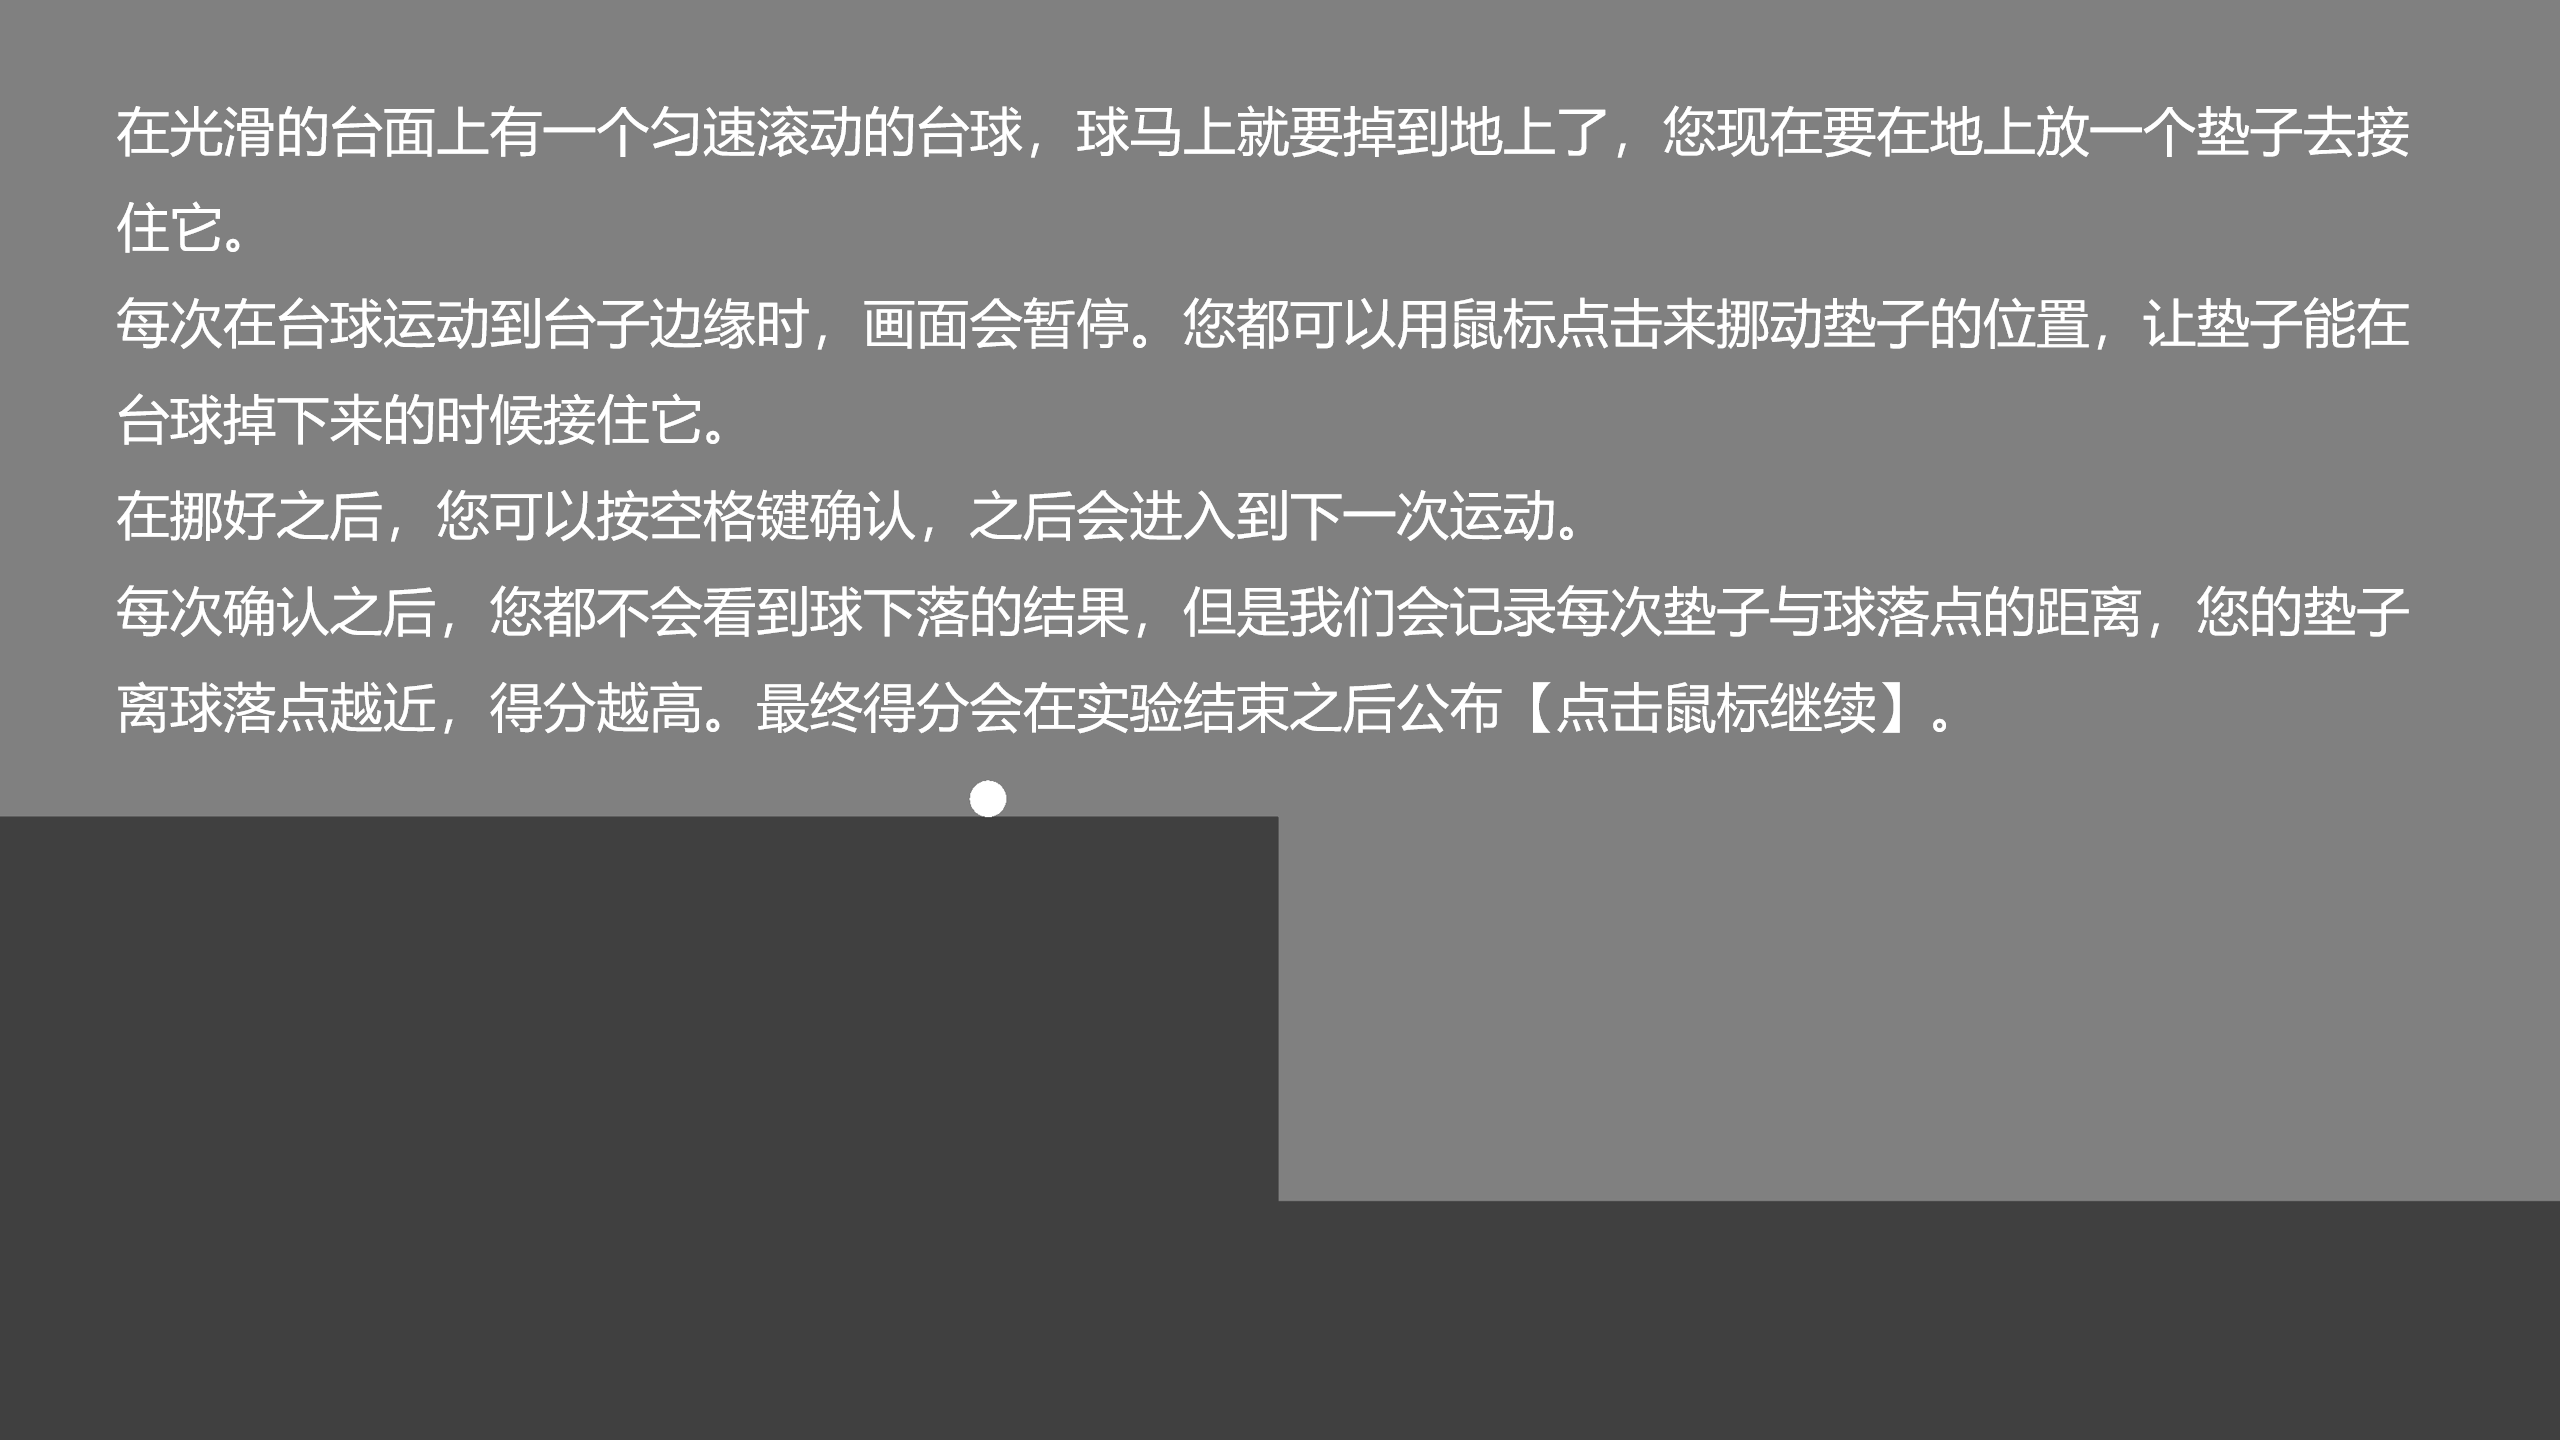
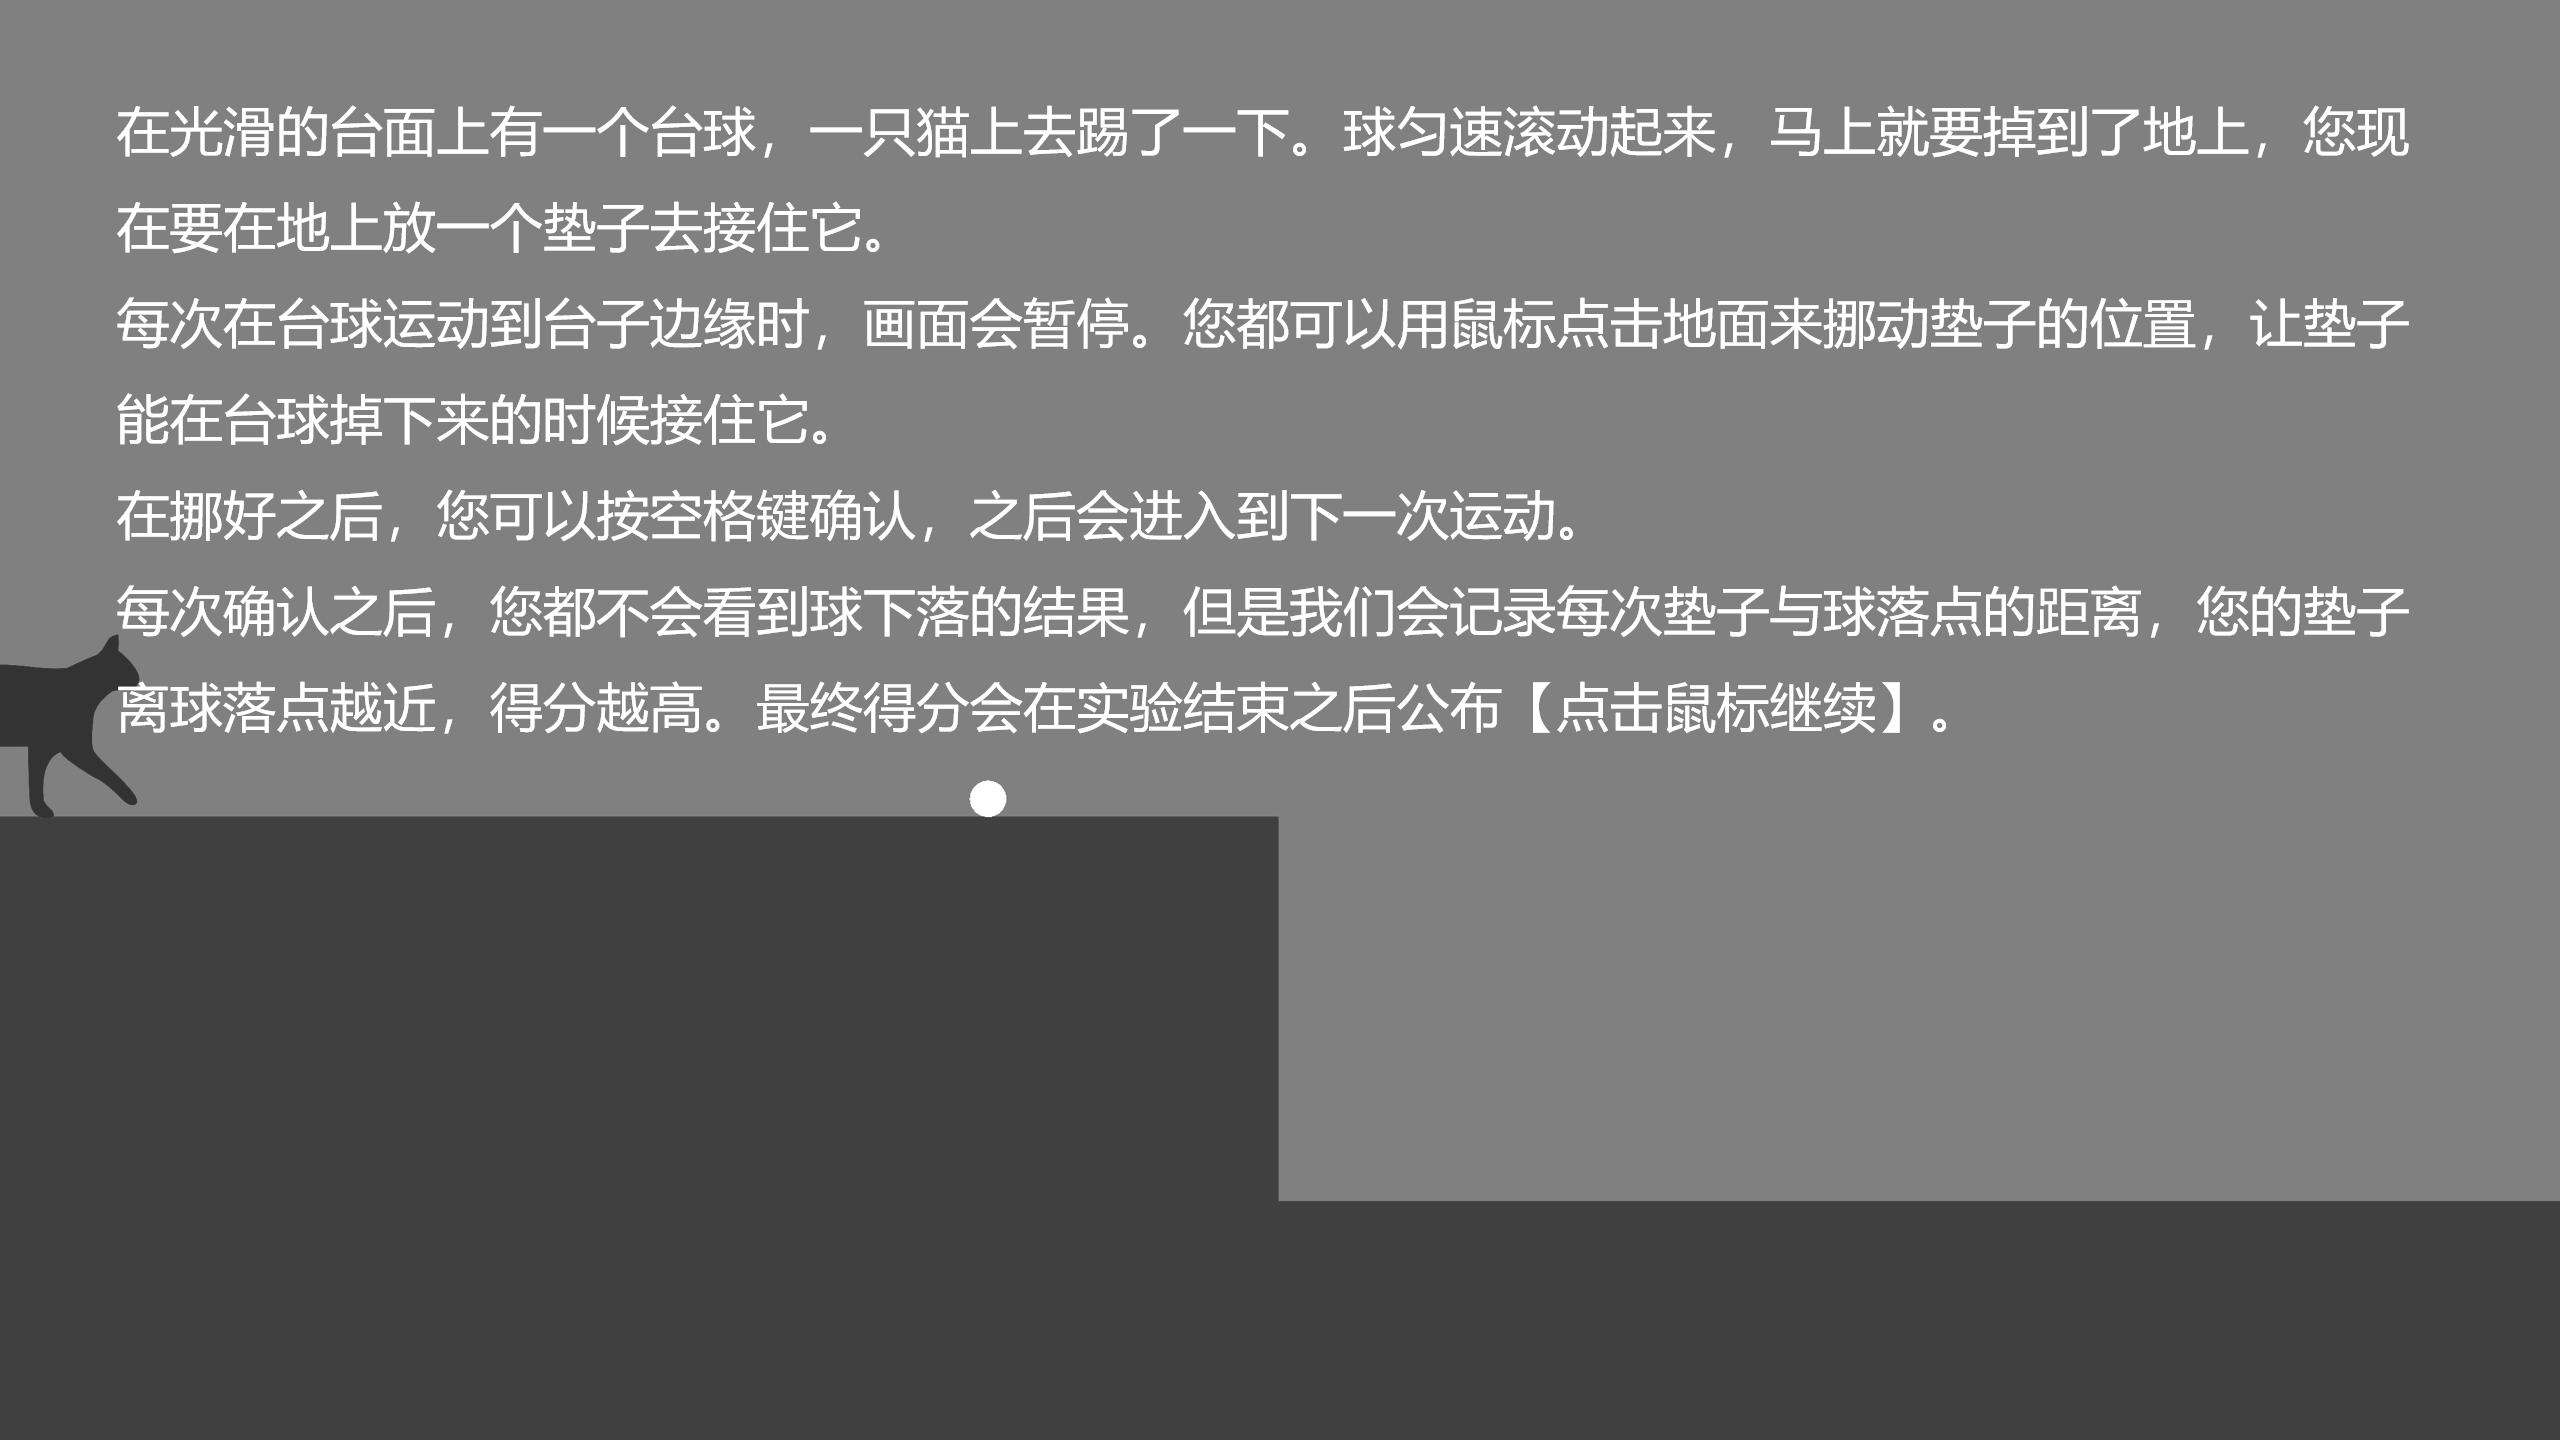
添加指导语，修改实验细节

diff --git a/trial_func.py b/trial_func.py
@@ -6,7 +6,7 @@ from psychopy import visual, event, core
 from target import *
 
 
-def run_trial(i, win, df, clk, ball, net, table, scale=800, h0=-600):
+def run_trial(i, win, df, clk, ball, net, table, cat0, cat1, scale=800, h0=-600):
     """
     执行抛物运动实验
     :param i: 试次编号
@@ -16,6 +16,8 @@ def run_trial(i, win, df, clk, ball, net, table, scale=800, h0=-600):
     :param ball: 运动对象，visual.Circle()
     :param net: 捕捉网，visual.Rect()
     :param table: 桌子&地面，visual.ShapeStim()
+    :param cat0: 猫0，visual.Image()
+    :param cat1: 猫1，visual.Image()
     :param scale: 像素与米之间的关系，在3200*1800分辨率下，1m=800像素
     :param h0: 地面高度，单位像素
     :return: 返回
@@ -29,34 +31,47 @@ def run_trial(i, win, df, clk, ball, net, table, scale=800, h0=-600):
         ori = 1
     else:
         ori = -1
-    s0 = df.s0[i] * ori * w / 2
+    # s0 = df.s0[i] * ori * w / 2
     start_pos = (-w*ori / 2, hy + h0 + size_r)
     ball.pos = start_pos
-    net.pos = (s0, h0)
+    # net.pos = (s0, h0)
+    cat0.pos = (-w*ori / 2, hy + h0 + 0.42*scale/2)
+    cat1.pos = (-w * ori / 2, hy + h0 + 0.42 * scale / 2)
+    cat0.flipHoriz = (ori==-1)
+    cat1.flipHoriz = (ori==-1)
     # ok_shape.pos = (-w * ori / 4, h0)
     # ok.pos = (-w * ori / 4, h0)
     vertices = ((-w*ori / 2, -h / 2), (-w*ori / 2, hy + h0), (0, hy + h0), (0, h0), (w*ori / 2, h0), (w*ori / 2, -h / 2))
     table.vertices = vertices
 
     myMouse = event.Mouse()
-    state = 'move'
+    state = 'ready'
     clk.reset()  # 初始时钟
     event.clearEvents()
 
     while True:
         # 初始状态
-        if state == 'move':
+        if state == 'ready':
+            table.draw()
+            cat0.draw()
+            ball.draw()
+            win.flip()
+            state = 'move'
+            core.wait(0.5)
+        elif state == 'move':
             t1 = clk.getTime()
             ball.pos = get_x(t1, v=v, scale=scale, pos_start=start_pos, ori=ori)
             table.draw()
+            cat1.draw()
             ball.draw()
             win.flip()
             if (abs(ball.pos[0]) < size_r) or (ori*ball.pos[0] > 0):
                 ball.pos = (0, start_pos[1])
                 state = 'estimate'
                 table.draw()
-                ball.draw()
-                net.draw()
+                # ball.draw()
+                cat1.draw()
+                # net.draw()
                 win.flip()
                 clk.reset()
 
@@ -66,7 +81,8 @@ def run_trial(i, win, df, clk, ball, net, table, scale=800, h0=-600):
                 table.draw()
                 # ok_shape.draw()
                 # ok.draw()
-                ball.draw()
+                # ball.draw()
+                cat1.draw()
                 net.draw()
                 win.flip()
             key = event.getKeys(keyList=['space'], timeStamped=clk)

diff --git a/exp.py b/exp.py
@@ -20,6 +20,7 @@ sex = ok_data[1]
 age = ok_data[2]
 
 
+# w, h = (1920, 1080)  # 显示器像素
 w, h = (3200, 1800)  # 显示器像素
 distance = 50
 width = 29.3
@@ -34,17 +35,18 @@ mon.save()  # 保存显示器信息
 
 
 ball_d = 0.05715
-height = [0.6, 1.1, 1.6]
-v = [1, 2, 3]
+# height = [0.6, 1.1, 1.6]
+# v = [1, 2, 3]
+height = [0.4, 0.8, 1.2, 1.6]
+v = [1, 1.8, 2.6]
 ori = ['left', 'right']
-repeat = 4
-repeat_half = 2
+repeat = 3
 # 生成trial
 df = generate(ball_d=ball_d, height=height, v=v, ori=ori,  repeat=repeat, unit='m')
 df_tr = generate_train(ball_d=ball_d)
 df['pix_w'] = w
 df['pix_h'] = h
-scale = 3200*800/w
+scale = w*800/3200
 df['scale'] = scale
 df_tr['scale'] = scale
 h0 = -h/3
@@ -64,9 +66,10 @@ net = visual.Rect(win, width=size_r*4, height=size_r/5, fillColor='white', lineC
 # ok_shape = visual.Rect(win, width=w/30, height=h/32, fillColor=[0, 0, 0], lineWidth=0)
 table = visual.ShapeStim(win, fillColor=[-0.5, -0.5, -0.5], lineColor=[-0.5, -0.5, -0.5])
 # ok = visual.TextStim(win, text=u"确认", height=h/40, color='white')
+cat0 = visual.ImageStim(win, size=(0.48*scale, 0.42*scale), image='icon/Cats0.png')
+cat1 = visual.ImageStim(win, size=(0.48*scale, 0.42*scale), image='icon/Cats.png')
 
 myMouse = event.Mouse()
-
 # 指导语
 pic = visual.ImageStim(win, size=(w, h))
 # 指导语
@@ -74,6 +77,7 @@ for i in range(3):
     pic.image = 'pic/指导语%s.png'%(i+1)
     pic.draw()
     win.flip()
+    core.wait(2)
     while sum(myMouse.getPressed(getTime=True)[0]) == 0:
         continue
     event.clearEvents()
@@ -83,10 +87,7 @@ clk = clock.Clock()
 clk.reset()
 for i in range(len(df_tr)):
     win.flip()
-    fix.draw()
-    win.flip()
-    core.wait(0.3)
-    rt, s, points = run_trial(i, win, df_tr, clk, ball, net, table, scale=scale, h0=h0)
+    rt, s, points = run_trial(i, win, df_tr, clk, ball, net, table, cat0, cat1, scale=scale, h0=h0)
     result_tr['id'].append(i)
     result_tr['rt'].append(rt)
     result_tr['s'].append(s)
@@ -119,13 +120,10 @@ for i in range(len(df)):
     if i == len(df)//2:
         visual.TextStim(win, text='请休息一下，双击屏幕或点击鼠标继续', pos=(0, 0), height=h/32).draw()
         win.flip()
+        core.wait(2)
         while sum(myMouse.getPressed(getTime=True)[0]) == 0:
             continue
-    win.flip()
-    fix.draw()
-    win.flip()
-    core.wait(0.3)
-    rt, s, points = run_trial(i, win, df, clk, ball, net, table, scale=scale, h0=h0)
+    rt, s, points = run_trial(i, win, df, clk, ball, net, table, cat0, cat1, scale=scale, h0=h0)
     result['id'].append(i)
     result['rt'].append(rt)
     result['s'].append(s)

diff --git a/generate_data.py b/generate_data.py
@@ -5,7 +5,7 @@ import pandas as pd
 import numpy as np
 
 
-def generate(ball_d=0.05715, height=[0.6, 1.1, 1.6], v=[1, 2, 3], ori=['left', 'right'],  repeat=4, unit='m'):
+def generate(ball_d=0.05715, height=[0.4, 0.8, 1.2, 1.6], v=[1, 1.8, 2.6], ori=['left', 'right'],  repeat=3, unit='m'):
     """
     生成实验的数据
     :param ball_d: 刺激直径，m
@@ -17,7 +17,6 @@ def generate(ball_d=0.05715, height=[0.6, 1.1, 1.6], v=[1, 2, 3], ori=['left', '
     return: DataFrame
     """
     df = pd.DataFrame()
-    s0 = [0, 1]
     n = len(height) * len(v) * len(ori) * repeat
     df['height'] = height * len(v) * len(ori) * repeat
     v_ = v * len(height)
@@ -26,9 +25,6 @@ def generate(ball_d=0.05715, height=[0.6, 1.1, 1.6], v=[1, 2, 3], ori=['left', '
     ori_ = ori * len(v) * len(height)
     ori_.sort()
     df['ori'] = ori_ * repeat
-    s0_ = s0 * len(height) * len(v) * len(ori)
-    s0_.sort()
-    df['s0'] = s0_ * int(repeat/2)
     df['ball_d'] = ball_d
     df['g'] = 9.8
     df['unit'] = unit
@@ -38,7 +34,7 @@ def generate(ball_d=0.05715, height=[0.6, 1.1, 1.6], v=[1, 2, 3], ori=['left', '
     return df
 
 
-def generate_train(ball_d=0.05715, height=[0.8, 1.2], v=[1.5, 2.5], ori=['left', 'right'],  repeat=1, unit='m'):
+def generate_train(ball_d=0.05715, height=[0.5, 1], v=[1.2, 2.4], ori=['left', 'right'],  repeat=1, unit='m'):
     """
     生成实验的数据
     :param ball_d: 刺激直径，m
@@ -66,7 +62,6 @@ def generate_train(ball_d=0.05715, height=[0.8, 1.2], v=[1.5, 2.5], ori=['left',
     df = df.sample(frac=1)
     df.index = range(len(df))
     return df
-
 
 
 if __name__ == '__main__':
